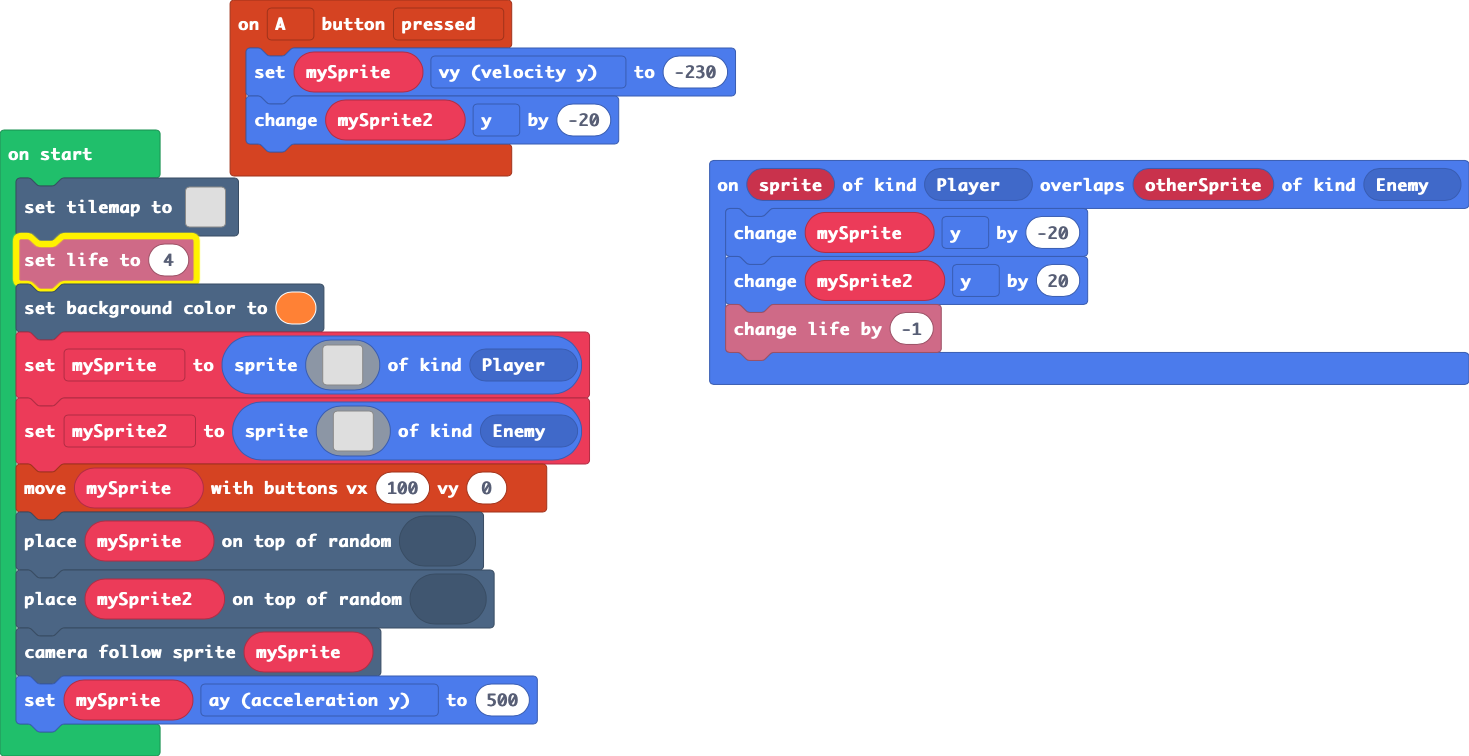
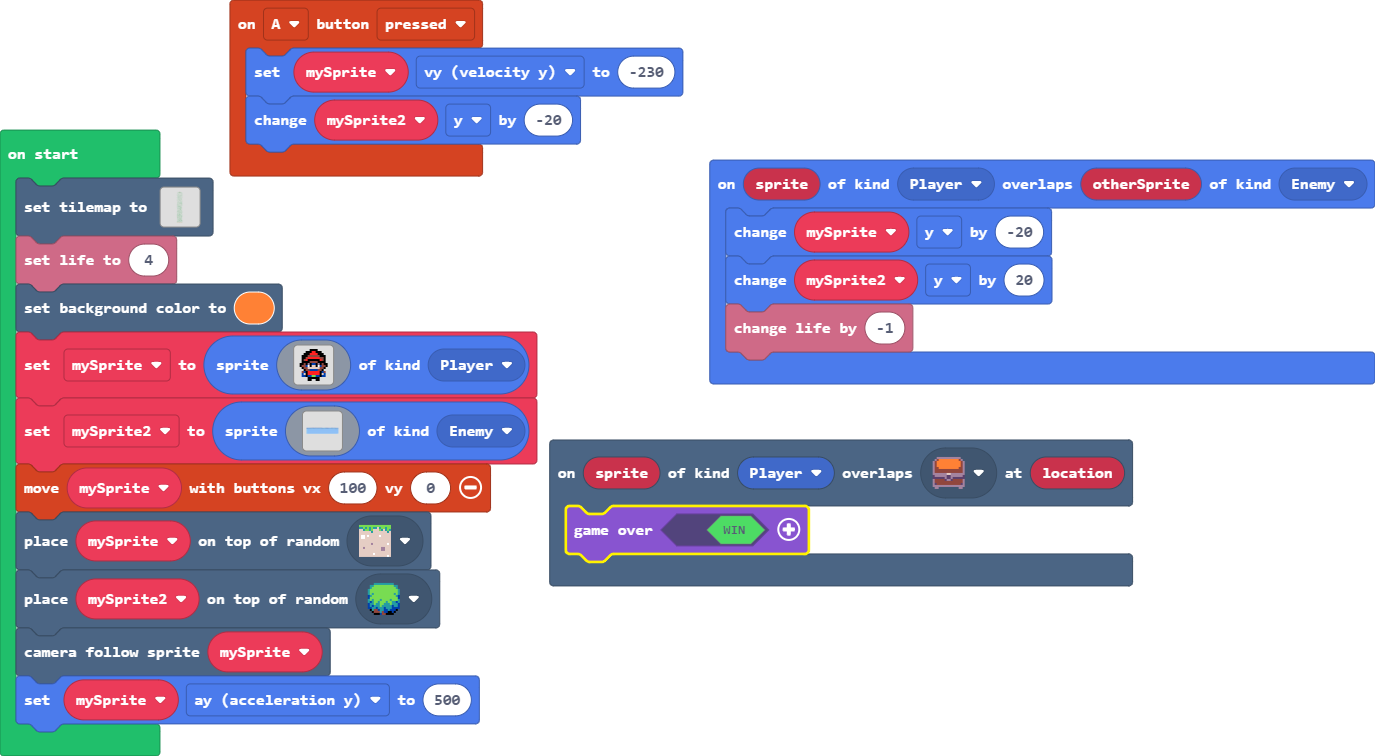
win condition chest

Changed region(s): [[0.0, 0.0, 0.8247, 1.0], [0.4582, 0.213, 0.9775, 0.5172], [0.0, 0.1825, 0.0611, 0.213]]

diff --git a/main.ts b/main.ts
@@ -2,6 +2,9 @@ controller.A.onEvent(ControllerButtonEvent.Pressed, function () {
     mySprite.vy = -230
     mySprite2.y += -20
 })
+scene.onOverlapTile(SpriteKind.Player, sprites.dungeon.chestClosed, function (sprite, location) {
+    game.over(true)
+})
 sprites.onOverlap(SpriteKind.Player, SpriteKind.Enemy, function (sprite, otherSprite) {
     mySprite.y += -20
     mySprite2.y += 20
